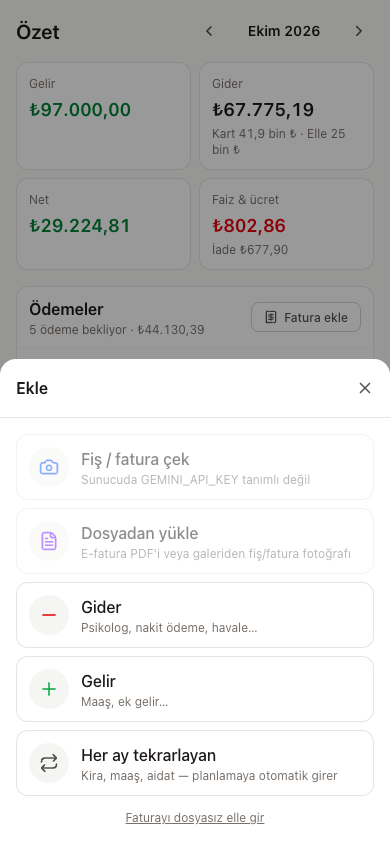
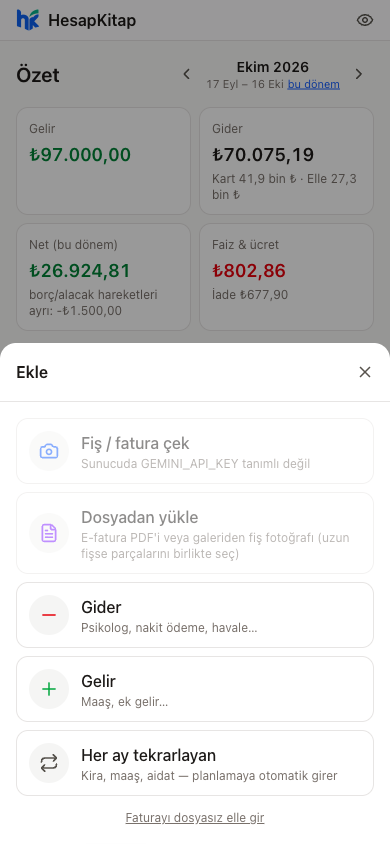
docs(readme): vitrin — ana görsel, öne çıkanlar, galeri
- Yeni ana görsel (masaüstü + telefon), rozetler, gezinme satırı
- 9 kutuluk "Öne çıkanlar" ızgarası; ayrıntılı özellikler katlanabilir
- Ekran görüntüleri yenilendi (Özet, İstatistik, Hesaplar, Zekât, Sadaka,
  Planlama, Tablo, mobil); hepsi uydurma demo verisi
- Demo verisi yeni özellikleri de içeriyor: geçmiş aylar, hesaplar,
  kumbara, altın/döviz, zekât, sadaka
- fix(arayüz): sekme yazıları ikiye bölünmesin ("Sadak/a", "Geçen/dönem")

Claude-Session: https://claude.ai/code/session_018Cq9Ng4VXGa3eQf53KyPDc

diff --git a/web/src/components/Segmented.tsx b/web/src/components/Segmented.tsx
@@ -11,7 +11,7 @@ export default function Segmented<T extends string>({ value, onChange, options }
         <button key={o.value} type="button" role="radio" aria-checked={value === o.value}
           onClick={() => onChange(o.value)}
           className={cx(
-            "flex-1 rounded-md px-3 py-1.5 text-sm font-medium transition-colors",
+            "flex-1 whitespace-nowrap rounded-md px-3 py-1.5 text-sm font-medium transition-colors",
             value === o.value
               ? cx("bg-white shadow-sm dark:bg-stone-700",
                   o.tone === "red" && "text-red-600 dark:text-red-400",

diff --git a/app/demo.py b/app/demo.py
@@ -46,7 +46,50 @@ def seed() -> None:
     db.create_goal({"kind": "category", "name": "AI & Yazılım Abonelik", "baseline": 4794.67, "target": 1500,
                     "start_month": "2026-11", "note": "kullanmadıklarımı kapat"})
     db.set_subscription_state("SCRIBD", "iptal", date(2026, 10, 15).isoformat())
+    _extras()
     print(f"Demo verisi yüklendi: {db.DB_PATH}")
+
+
+def _extras() -> None:
+    """Yeni özellikler için uydurma veri: geçmiş aylar, hesaplar, kumbara, altın/döviz, zekât, sadaka."""
+    from app import donations, zakat
+
+    # geçmiş aylar: grafik ve karşılaştırma dolsun
+    for m, (gelir, market, kafe) in {"2026-05": (85000, 5200, 1900), "2026-06": (85000, 4700, 2600),
+                                     "2026-07": (91000, 6100, 2100), "2026-08": (91000, 5300, 3100),
+                                     "2026-09": (91000, 4900, 2300)}.items():
+        db.create_entry({"entry_date": f"{m}-01", "description": "Maaş", "amount": gelir, "kind": "gelir", "category": "Maaş"})
+        db.create_entry({"entry_date": f"{m}-05", "description": "Kira", "amount": 22000, "kind": "gider",
+                         "category": "Kira & Aidat", "payment": "havale"})
+        db.create_entry({"entry_date": f"{m}-14", "description": "Örnek Market", "amount": market, "kind": "gider",
+                         "category": "Market & Gıda", "payment": "nakit"})
+        db.create_entry({"entry_date": f"{m}-20", "description": "Örnek Kafe", "amount": kafe, "kind": "gider",
+                         "category": "Kafe & Restoran", "payment": "nakit"})
+    # hesaplar ve yemek kartı
+    db.set_account_balance("Örnek Bank", 48250.40, "2026-10-15", "elle", "banka")
+    db.set_account_balance("Cüzdan", 1850, "2026-10-15", "elle", "nakit")
+    acc = next(a["id"] for a in db.list_accounts() if a["name"] == "Örnek Bank")
+    # kumbara
+    jid = db.create_jar({"name": "Tatil", "goal": 30000, "deadline": "2027-06-30", "account_id": acc,
+                         "monthly": 2000, "auto_day": 2}, initial=14600)
+    db.add_jar_move(jid, 2000, "2026-09-02", "Eylül")
+    db.add_jar_move(jid, 2000, "2026-10-02", "Ekim")
+    db.create_jar({"name": "Acil durum", "goal": 50000, "account_id": acc}, initial=21000)
+    # borç / alacak
+    db.create_debt({"person": "Ali", "direction": "alacak", "amount": 1500, "debt_date": "2026-10-04", "asset": "TRY"})
+    # altın ve döviz (zekât ile ortak liste)
+    me = zakat.people()[0]["id"]
+    es = zakat.add_person("Eşim")
+    zakat.add_asset(me, "CEYREK", 20, False, "kasada", "2025-03-10", 176000)
+    zakat.add_asset(me, "ALTIN_24", 50, False, "gram altın", "2025-06-02", 215000)
+    zakat.add_asset(me, "USD", 1200, False, None, "2025-08-01", 49200)
+    zakat.add_asset(es, "ALTIN_22", 100, True, "düğün takısı", "2024-06-15", None)
+    zakat.update_person(me, {"hawl_start": "2025-11-19"})
+    zakat.update_person(es, {"hawl_start": "2025-11-19"})
+    # sadaka
+    donations.add("sadaka", 200, "2026-10-03")
+    donations.add("bagis", 500, "2026-09-12", "Kızılay")
+    donations.add("fitre", 600, "2026-03-18")
 
 
 if __name__ == "__main__":

diff --git a/README.md b/README.md
@@ -1,42 +1,127 @@
 <p align="center">
-  <img src="docs/logo.png" width="96" alt="HesapKitap logosu">
+  <img src="docs/logo.png" width="88" alt="HesapKitap logosu">
 </p>
 
 <h1 align="center">HesapKitap</h1>
 
 <p align="center">
-  Kredi kartı ekstrelerini ve banka dökümlerini yükle, paranın nereye gittiğini gör, önümüzdeki ayları planla.<br>
-  Zekât, sadaka, altın, kumbara ve faiz takibi dahil — Türkiye'deki bankalar ve alışkanlıklar için.<br>
-  <b>Kendi sunucunda çalışır · verin sende kalır · telefonda uygulama gibi</b>
+  <b>Ekstreni bırak, gerisini HesapKitap yapsın — verin sende kalır.</b><br>
+  Kredi kartı ekstreleri, banka dökümleri, fişler, plan, altın, kumbara, zekât ve sadaka.<br>
+  Türkiye'deki bankalar ve alışkanlıklar için, kendi sunucunda çalışan kişisel finans uygulaması.
 </p>
 
 <p align="center">
   <a href="https://github.com/alameddinc/hesapkitap/actions/workflows/ci.yml"><img src="https://github.com/alameddinc/hesapkitap/actions/workflows/ci.yml/badge.svg" alt="CI"></a>
+  <a href="https://github.com/alameddinc/hesapkitap/pkgs/container/hesapkitap"><img src="https://img.shields.io/badge/docker-ghcr.io-2496ED?logo=docker&logoColor=white" alt="Docker imajı"></a>
   <a href="LICENSE"><img src="https://img.shields.io/badge/lisans-PolyForm%20Noncommercial-blue" alt="PolyForm Noncommercial"></a>
+  <img src="https://img.shields.io/badge/Python-3.12-3776AB?logo=python&logoColor=white" alt="Python 3.12">
+  <img src="https://img.shields.io/badge/React-19-61DAFB?logo=react&logoColor=black" alt="React 19">
+  <img src="https://img.shields.io/badge/SQLite-kullanıcı%20başına%20dosya-003B57?logo=sqlite&logoColor=white" alt="SQLite">
+  <img src="https://img.shields.io/badge/PWA-iOS%20%C2%B7%20Android-5A0FC8?logo=pwa&logoColor=white" alt="PWA">
 </p>
 
 <p align="center">
-  <img src="docs/screenshots/ozet.png" width="720" alt="Özet ekranı">
+  <a href="#-hızlı-kurulum"><b>Kurulum</b></a> ·
+  <a href="docs/KURULUM.md"><b>Tek tıkla / evde / VPS</b></a> ·
+  <a href="#-ekran-görüntüleri"><b>Ekran görüntüleri</b></a> ·
+  <a href="#-tüm-özellikler"><b>Tüm özellikler</b></a> ·
+  <a href="#-gizlilik"><b>Gizlilik</b></a>
 </p>
 
-## İçindekiler
+<p align="center">
+  <img src="docs/screenshots/hero.png" width="900" alt="HesapKitap masaüstü ve telefon">
+</p>
 
-- [Neler yapar](#neler-yapar)
-  - [Belgeleri içeri almak](#belgeleri-içeri-almak)
-  - [Harcama, gelir ve plan](#harcama-gelir-ve-plan)
-  - [Varlıklar, kumbara, borç/alacak](#varlıklar-kumbara-borçalacak)
-  - [Zekât ve sadaka](#zekât-ve-sadaka)
-  - [Faiz alarmı](#faiz-alarmı)
-  - [Telefonda](#telefonda)
-  - [Birden fazla kullanıcı](#birden-fazla-kullanıcı)
-- [Hızlı kurulum](#hızlı-kurulum) · [tek tıkla / evde / VPS rehberi](docs/KURULUM.md)
-- [Gizlilik](#gizlilik)
-- [Geliştirme](#geliştirme)
-- [Lisans](#lisans)
+## ✨ Öne çıkanlar
 
-## Neler yapar
+<table>
+<tr>
+<td width="33%" valign="top">
 
-### Belgeleri içeri almak
+### 📄 Ekstreni bırak
+Kart ekstresi, hesap dökümü, fiş, fatura — **kendisi anlar**. Mutabakat ve bakiye zinciriyle kuruşu kuruşuna doğrular.
+
+</td>
+<td width="33%" valign="top">
+
+### 📊 Paranı gör
+Gelir, gider, **gerçek net durum**; geçen dönemlerle karşılaştırma, en yoğun günler, bütçe uyarıları.
+
+</td>
+<td width="33%" valign="top">
+
+### 🗓 Önünü gör
+Brütten nete maaş, taksitler, sabit giderler — **3–12 ay plan**. "Alırsam ne olur?" simülatörü.
+
+</td>
+</tr>
+<tr>
+<td valign="top">
+
+### 🐷 Kumbara ve altın
+Hedef için para ayır, harcanabilir bakiyenden düşsün. Altın/döviz anlık fiyatla; **ne zaman, kaça aldığın**.
+
+</td>
+<td valign="top">
+
+### 🌙 Zekât ve sadaka
+Nisap, **kameri yıl**, aile üyeleri ayrı, geçmiş yıllar ve kaza zekâtı. Sadaka, fitre, kurban — tutarlar gizli.
+
+</td>
+<td valign="top">
+
+### 🚨 Faiz alarmı
+Faiz ya da vade farkı ödediysen **nedenini** söyler: "son ödeme 25.08, ödeme 26.08 — 1 gün geç".
+
+</td>
+</tr>
+<tr>
+<td valign="top">
+
+### 📲 Telefondan paylaş
+Banka uygulamasından PDF'i, galeriden fişi **Paylaş** ile gönder. iPhone kısayolu tek dokunuş, Android doğrudan.
+
+</td>
+<td valign="top">
+
+### 👨👩👧 Aile ve arkadaşlar
+Davetle hesap aç; herkesin verisi **ayrı dosyada**, yönetici kimsenin harcamasını göremez.
+
+</td>
+<td valign="top">
+
+### 🔒 Verin sende
+Kendi sunucunda, tek tıkla kurulum ya da evdeki cihazda. Kodu açık, abonelik ve reklam yok.
+
+</td>
+</tr>
+</table>
+
+## 📸 Ekran görüntüleri
+
+| Özet | İstatistik |
+|---|---|
+| ![Özet](docs/screenshots/ozet.png) | ![İstatistik](docs/screenshots/istatistik.png) |
+| **Hesaplar, altın, kumbara** | **Zekât** |
+| ![Hesaplar](docs/screenshots/hesaplar.png) | ![Zekât](docs/screenshots/zekat.png) |
+| **Planlama** | **Tablo (pivot)** |
+| ![Planlama](docs/screenshots/planlama.png) | ![Tablo](docs/screenshots/tablo.png) |
+
+<p align="center">
+  <img src="docs/screenshots/mobil-ozet.png" width="200" alt="Mobil özet">
+  <img src="docs/screenshots/mobil-hesaplar.png" width="200" alt="Mobil hesaplar">
+  <img src="docs/screenshots/mobil-zekat.png" width="200" alt="Mobil zekât">
+  <img src="docs/screenshots/mobil-ekle.png" width="200" alt="Fiş / fatura ekleme">
+</p>
+
+<sub>Tüm görüntüler uydurma demo verisiyle alındı (<code>python -m app.demo</code>).</sub>
+
+## 📋 Tüm özellikler
+
+Ayrıntılar için başlığa dokun.
+
+<details>
+<summary><b>Belgeleri içeri almak</b></summary>
 
 - **Tek yükleme alanı** — Kart ekstresi mi, hesap dökümü mü, fiş mi, fatura mı kendisi anlar. PDF, fotoğraf, Excel/CSV.
 - **Kart ekstreleri** — İşlemler, taksitler (kaçıncı taksit, kalan), dövizli harcamalar, faiz/BSMV/KKDF, vade farkı ayrıştırılır.
@@ -55,7 +140,10 @@
 - **Telegram'dan** — Bota gönderilen PDF içe aktarılır (sadece bağlı sohbetten).
 - **Şifreli PDF'ler** — Bankaların şifreli ekstreleri; şifre bir kez sorulur, hatırlanır.
 
-### Harcama, gelir ve plan
+</details>
+
+<details>
+<summary><b>Harcama, gelir ve plan</b></summary>
 
 - **Özet** — Dönem geliri/gideri/neti, "Dikkat etmen gerekenler", net durum, bütçeler, kategoriler, en çok harcanan yerler, ödemeler.
 - **Ay dönümü** — Dönemler kart kesim tarihine hizalanır (ör. 20 Ekim – 19 Kasım "Kasım dönemi").
@@ -81,7 +169,10 @@
 - **Tablo** — Excel gibi filtreler, kategori × ay pivotu, Excel'e aktarma.
 - **Uyarılar** — Faiz, vade farkı, biten taksitler, limit doluluğu, dövizli harcama, eksik ekstre, maaşı görünmeyen aylar…
 
-### Varlıklar, kumbara, borç/alacak
+</details>
+
+<details>
+<summary><b>Varlıklar, kumbara, borç/alacak</b></summary>
 
 - **Hesaplar ve net durum** — Banka, nakit, yemek/hediye kartları, kredi kartı borçları, altın/döviz, borç/alacak → gerçek net durum.
   Bakiyeler dökümden kendiliğinden güncellenir ya da elle düzeltilir.
@@ -95,7 +186,10 @@
 - **Borç / alacak defteri** — TL, döviz, altın; kısmi ödemeler, vadesinde hatırlatma, havale görülünce kendiliğinden kapanma,
   "vazgeçtim". **Transferler**: kime ne gitti, kişi kişi.
 
-### Zekât ve sadaka
+</details>
+
+<details>
+<summary><b>Zekât ve sadaka</b></summary>
 
 - **Zekât** — Diyanet (Hanefî) esas, Şâfiî seçeneği. Kişi bazında (aile üyeleri ayrı), **nisap** 80,18 gr altın,
   **kameri yıl** (354 gün) ve hicri tarih, %2,5.
@@ -109,13 +203,19 @@
   Deniz Feneri, İHH, LÖSEV, Darüşşafaka, AFAD…) giden ödemeler yakalanıp "sadaka mı, zekât mı?" diye sorulur; herhangi bir
   harcama "zekât" olarak işaretlenirse o yılın zekât ödemesine yazılır. Tutarlar varsayılan gizli.
 
-### Faiz alarmı
+</details>
+
+<details>
+<summary><b>Faiz alarmı</b></summary>
 
 - Ekstrede faiz, vade farkı ya da faize bağlı vergi varsa **nedeniyle birlikte** uyarır: önceki ekstre **kaç gün geç** ödendi,
   eksik mi ödendi, hangi taksitli alışverişe vade farkı eklendi. Önlem: otomatik ödeme talimatı.
 - Hesaba faiz işlerse "arındırılacak" uyarısı. İstatistik'te dönem dönem faiz geçmişi.
 
-### Telefonda
+</details>
+
+<details>
+<summary><b>Telefonda</b></summary>
 
 - **Uygulama gibi** — "Uygulamayı yükle" düğmesi (Android/masaüstü Chrome, Edge); iPhone'da Ana Ekrana Ekle.
   Yeni sürüm öne gelince kendiliğinden yüklenir. Açılışta tutarlar gizli (göz ikonuyla açılır).
@@ -125,19 +225,19 @@
   - Ekstre ve dökümler hemen içe aktarılır; fiş ve faturalar Özet'te "onay bekliyor" olarak bekler.
 - **Telegram** — Son ödeme ve zekât hatırlatmaları, ay sonu raporu, günlük **şifreli** yedek.
 
-### Birden fazla kullanıcı
+</details>
+
+<details>
+<summary><b>Birden fazla kullanıcı</b></summary>
 
 - Arkadaşlarına **davet bağlantısı** ya da geçici şifreyle hesap aç. Her kullanıcının verisi **ayrı bir SQLite dosyasında**;
   yönetici ekranında sadece kullanıcı adı, son giriş ve yapay zekâ kullanımı görünür, kimsenin harcaması görünmez.
 - Yöneticinin Gemini anahtarı paylaşılır, kişi başı **aylık okuma kotasıyla** (varsayılan 100); kendi anahtarını giren sınırsız.
 - Başlarken rehberi: ekstre yükle → bakiyeleri kontrol et → maaş (net/brüt) → fiş okut → bildirimler.
 
-<p align="center">
-  <img src="docs/screenshots/mobil-ozet.png" width="240" alt="Mobil özet">
-  <img src="docs/screenshots/mobil-ekle.png" width="240" alt="Fiş / fatura ekleme">
-</p>
+</details>
 
-## Hızlı kurulum
+## 🚀 Hızlı kurulum
 
 ### Tek tıkla, kendi sunucunda
 
@@ -186,17 +286,7 @@ Aynı `docker compose up -d`; önüne HTTPS yapan bir reverse proxy (Caddy, Ngin
 - **iPhone kısayolu** kendi adresin için (macOS gerekir): `python3 scripts/make_shortcut.py https://alanadin` →
   çıkan dosyayı `data/shortcuts/hesapkitap.shortcut` olarak koy; Ayarlar'daki "Kısayolu ekle" düğmesi onu verir.
 
-## Ekran görüntüleri
-
-| Planlama | Tablo (pivot) |
-|---|---|
-| ![Planlama](docs/screenshots/planlama.png) | ![Tablo](docs/screenshots/tablo.png) |
-
-| Tasarruf |
-|---|
-| ![Tasarruf](docs/screenshots/tasarruf.png) |
-
-## Gizlilik
+## 🔒 Gizlilik
 
 - **Kendi sunucunda** tüm veri o sunucuda, SQLite dosyalarında durur. Dışarıya sadece senin açtığın özellikler konuşur:
   - Gemini anahtarı girersen fiş, fatura ve tanınmayan bankaların ekstreleri okunmak için Google'a gider.
@@ -209,7 +299,7 @@ Aynı `docker compose up -d`; önüne HTTPS yapan bir reverse proxy (Caddy, Ngin
   Verini istediğin an Ayarlar → Yedekler'den tek dosya olarak indirebilirsin.
 - Kart numaraları sadece maskeli (ilk 4 + son 4) saklanır. Paylaş kısayolunun anahtarı sunucuda sadece özet (hash) olarak tutulur.
 
-## Geliştirme
+## 🛠 Geliştirme
 
 ```bash
 cp .env.example .env            # isteğe bağlı
@@ -248,10 +338,13 @@ iPhone/Android, and invite friends with fully separate per-user databases. Quick
 http://localhost:8080. Source-available under the PolyForm Noncommercial License 1.0.0: free for personal and other
 noncommercial use; commercial use requires a separate license from the author.
 
-## Lisans
+## 📜 Lisans
 
 [PolyForm Noncommercial 1.0.0](LICENSE) — kaynağı açık, **ticari olmayan** her kullanım serbest: kendin için kurup
 kullanabilir, değiştirebilir, arkadaşlarınla paylaşabilirsin. Ticari kullanım (ücretli hizmet sunmak, bir şirket ürününe
 gömmek vb.) için yazardan ayrıca izin/lisans gerekir.
 
 Bu değişiklikten önce MIT ile yayımlanmış sürümler MIT lisansıyla kalır; yeni lisans bundan sonraki sürümler içindir.
+
+</details>
+
